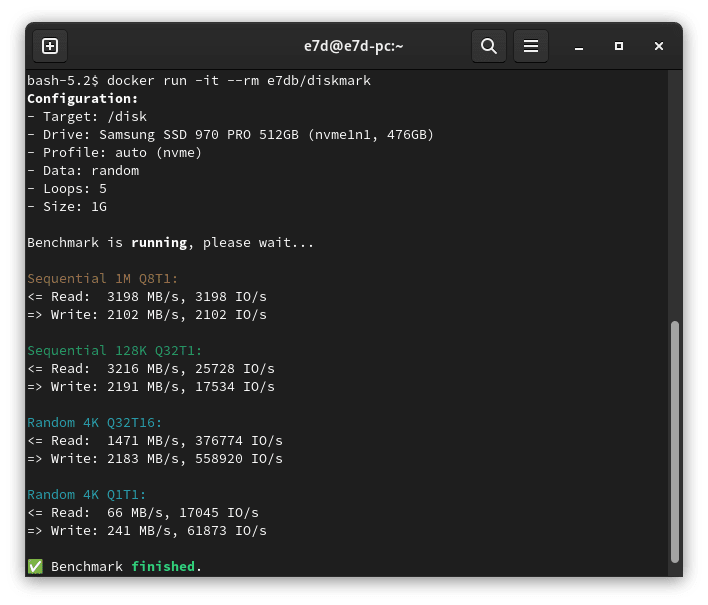
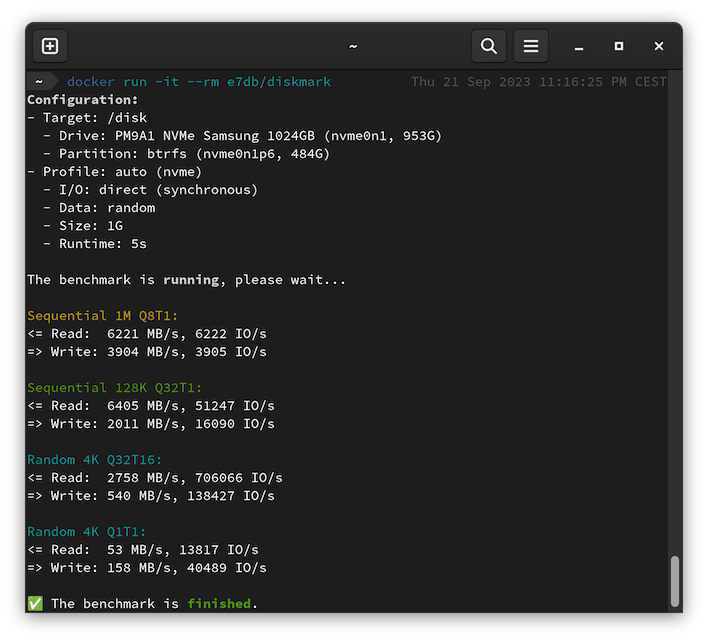
add time-based mode (by default)

diff --git a/README.md b/README.md
@@ -35,7 +35,8 @@ Find below a table listing all the different parameters you can use with the con
 | `IO`                 | Environment | direct  | The drive access mode:<br>- `direct` for synchronous I/O,<br>- `buffered` for asynchronous I/O. |
 | `DATA`               | Environment | random  | The test data:<br>- `random` to use random data,<br>- `0x00` to fill with 0 (zero) values. |
 | `SIZE`               | Environment | 1G      | The size of the test file in bytes. |
-| `LOOPS`              | Environment | 5       | The number of test loops. |
+| `RUNTIME`            | Environment | 5s      | The test duration for each job. |
+| `LOOPS`              | Environment |         | The number of test loops performed on the test file.<br>This parameter overrides the `RUNTIME` parameter. |
 | `/disk`              | Volume      |         | The target path to benchmark. |
 
 By default, a 1 GB test file is used, using 5 loops for each test, reading and writing random bytes on the disk where Docker is installed.
